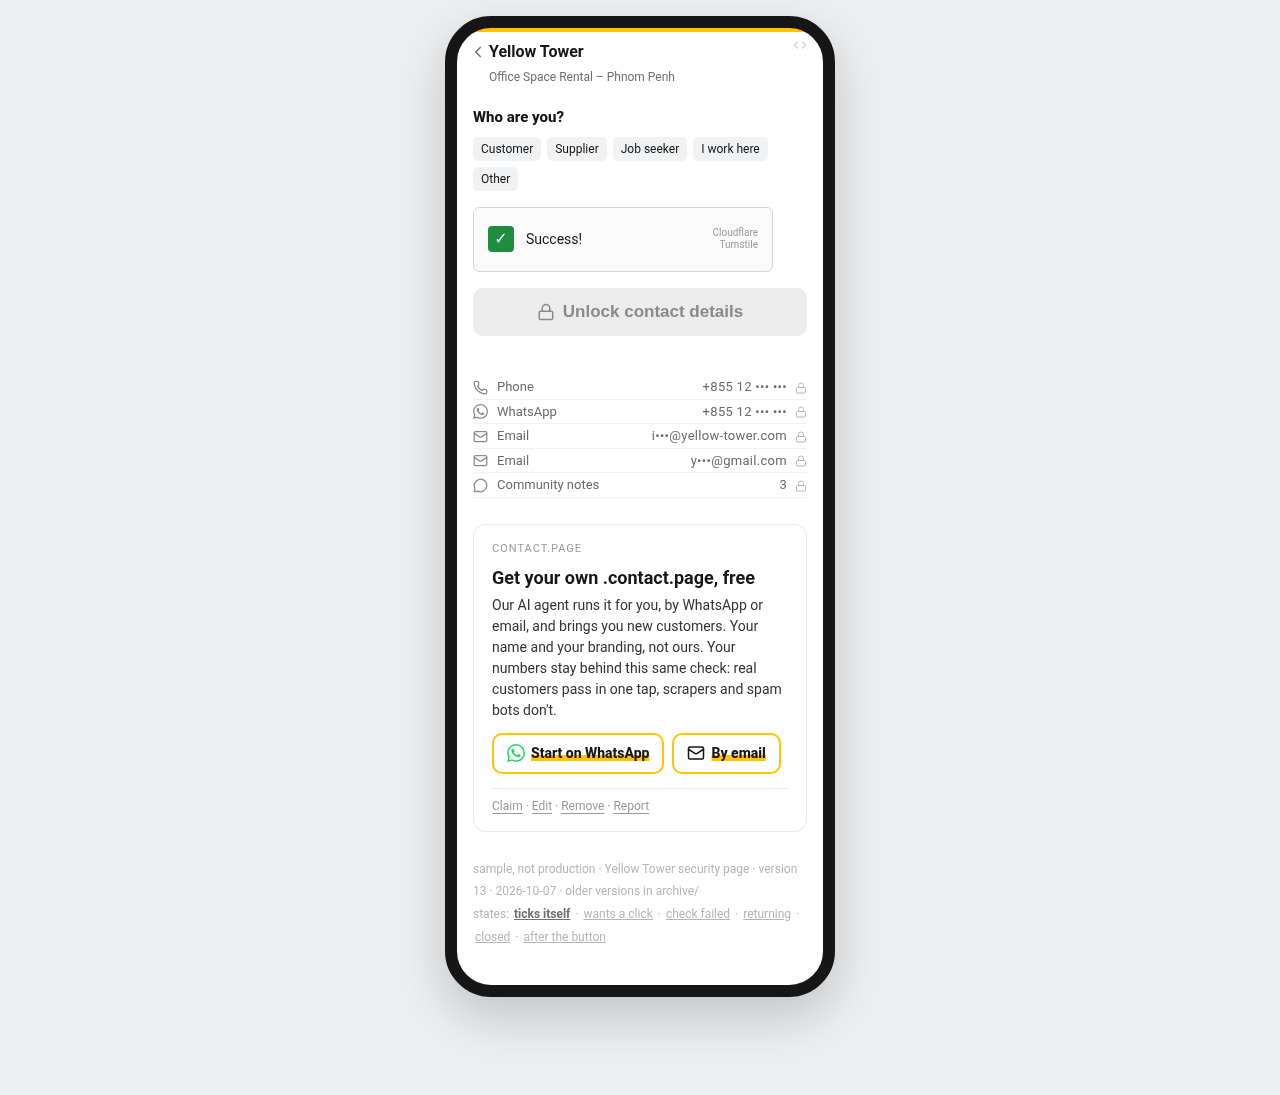
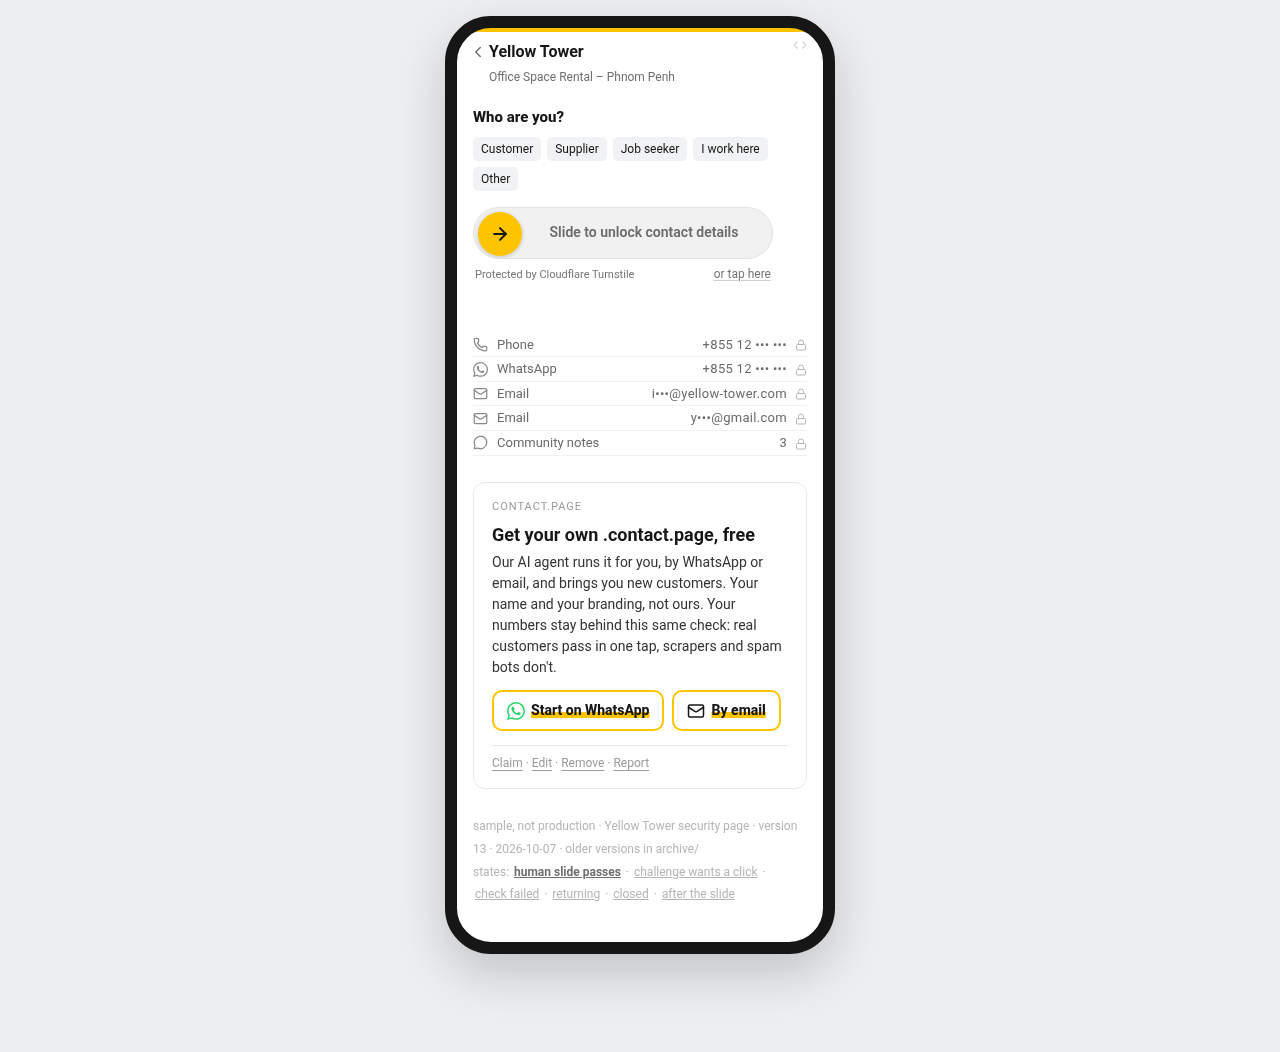
Publish mockups 2026-10-07 00:58 WITA

diff --git a/yellow-tower-security-page.html b/yellow-tower-security-page.html
@@ -53,6 +53,24 @@ h1 .arrow{color:var(--grey);margin-left:-4px}
 .btn.on{background:var(--green);color:var(--green-ink);box-shadow:0 4px 14px rgba(34,197,94,.35)}
 .btn:focus-visible{outline:2px solid var(--ink);outline-offset:3px}
 .hint{font-size:13px;color:var(--warn);margin:6px 0 0;min-height:1.2em}
+
+.unlockcol{width:300px;max-width:100%}
+.ts.hidden{display:none}
+.ts{margin:0 0 10px}
+.slide{position:relative;width:100%;height:52px;border-radius:999px;background:#f1f1f1;border:1px solid #e2e2e2;
+  user-select:none;-webkit-user-select:none;touch-action:none;overflow:hidden}
+.slide .fill{position:absolute;left:0;top:0;bottom:0;width:0;background:var(--yellow-soft);border-radius:999px}
+.slide .track{position:absolute;inset:0;display:flex;align-items:center;justify-content:center;padding:0 16px 0 58px;
+  font-size:14px;font-weight:600;color:#6b6b6b;pointer-events:none}
+.slide .knob{position:absolute;left:4px;top:4px;width:44px;height:44px;border-radius:50%;background:var(--yellow);color:var(--ink);
+  display:flex;align-items:center;justify-content:center;cursor:grab;box-shadow:0 1px 4px rgba(0,0,0,.2);transition:left .25s}
+.slide .knob:focus-visible{outline:2px solid var(--ink);outline-offset:2px}
+.slide.drag .knob{transition:none;cursor:grabbing}
+.slide.off{background:#f4f4f4}
+.slide.off .knob{background:#d9d9d9;color:#8a8a8a;cursor:not-allowed}
+.slide.wait .track::after{content:"…"}
+.under{display:flex;justify-content:space-between;align-items:baseline;gap:8px;margin:6px 2px 0;font-size:11px;color:#767676}
+.under a{color:#767676;text-decoration:underline;text-decoration-color:#cfcfcf;text-underline-offset:2px;font-size:12px}
 .hp{position:absolute;left:-10000px;width:1px;height:1px;overflow:hidden}
 
 
@@ -144,21 +162,26 @@ body[data-state="closed"] .house .own{display:none}
 </div>
 
 
-<div class="step">
-<div class="ts" id="ts" data-ts="wait" aria-live="polite">
+<div class="step unlockcol">
+<div class="ts hidden" id="ts" data-ts="wait" aria-live="polite">
 <span class="spin" id="tsSpin" aria-hidden="true"></span>
 <span class="box" id="tsBox" role="checkbox" aria-checked="false" tabindex="-1" aria-label="Verify you are human" style="display:none"></span>
 <span class="txt" id="tsTxt">Checking…</span>
 <span class="brand">Cloudflare<br>Turnstile</span>
 </div>
+<div class="slide" id="slide">
+<div class="fill" id="slideFill"></div>
+<div class="track" id="slideTxt">Slide to unlock contact details</div>
+<div class="knob" id="knob" role="slider" tabindex="0" aria-label="Slide to unlock contact details" aria-valuemin="0" aria-valuemax="100" aria-valuenow="0" aria-valuetext="locked"><svg viewBox="0 0 24 24" width="20" height="20" fill="none" stroke="currentColor" stroke-width="2.4" stroke-linecap="round" stroke-linejoin="round" aria-hidden="true"><path d="M5 12h14"/><path d="m12 5 7 7-7 7"/></svg></div>
+</div>
+<div class="under"><span>Protected by Cloudflare Turnstile</span><a href="#" id="tapUnlock">or tap here</a></div>
 </div>
 
 
 <div class="hp" aria-hidden="true"><label for="company_website">Company website</label><input type="text" id="company_website" name="company_website" tabindex="-1" autocomplete="off"></div>
 <input type="hidden" name="cf-turnstile-response" id="tsToken" value="">
+<input type="hidden" name="slide_score" id="slideScore" value="">
 
-
-<button class="btn" type="submit" id="go"><svg class="bi" viewBox="0 0 24 24" width="18" height="18" fill="none" stroke="currentColor" stroke-width="2" stroke-linecap="round" stroke-linejoin="round" aria-hidden="true"><rect width="18" height="11" x="3" y="11" rx="2" ry="2" /><path d="M7 11V7a5 5 0 0 1 10 0v4" /></svg>Unlock contact details</button>
 <p class="hint" id="hint" aria-live="polite"></p>
 </form>
 
@@ -190,28 +213,36 @@ body[data-state="closed"] .house .own{display:none}
 <div class="meta">
 sample, not production · Yellow Tower security page · version 13 · 2026-10-07 · older versions in archive/<br>
 states:
-<button type="button" data-state="first" data-ts="auto" aria-pressed="true">ticks itself</button> ·
-<button type="button" data-state="first" data-ts="click" aria-pressed="false">wants a click</button> ·
+<button type="button" data-state="first" data-ts="auto" aria-pressed="true">human slide passes</button> ·
+<button type="button" data-state="first" data-ts="click" aria-pressed="false">challenge wants a click</button> ·
 <button type="button" data-state="fail" aria-pressed="false">check failed</button> ·
 <button type="button" data-state="returning" aria-pressed="false">returning</button> ·
 <button type="button" data-state="closed" aria-pressed="false">closed</button> ·
-<button type="button" data-state="done" aria-pressed="false">after the button</button>
+<button type="button" data-state="done" aria-pressed="false">after the slide</button>
 </div>
 
 </div>
 <script>
-// Mockup behaviour only. Production: Turnstile's callback sets the token; the form posts to /contact-details; the server verifies.
+// Mockup behaviour only. Production: Turnstile (managed/invisible) sets the token in the background; the slide adds a
+// score; the form posts role + token + score + honeypot to /contact-details; the server verifies the TOKEN (siteverify).
+// The slide score is never enough on its own.
 (function(){
   var body=document.body, ts=document.getElementById('ts'), spin=document.getElementById('tsSpin'),
-      box=document.getElementById('tsBox'), txt=document.getElementById('tsTxt'), go=document.getElementById('go'),
-      hint=document.getElementById('hint'), who=document.getElementById('who'), form=document.getElementById('gateForm'), timer;
+      box=document.getElementById('tsBox'), txt=document.getElementById('tsTxt'),
+      slide=document.getElementById('slide'), knob=document.getElementById('knob'), fill=document.getElementById('slideFill'),
+      stxt=document.getElementById('slideTxt'), tap=document.getElementById('tapUnlock'),
+      hint=document.getElementById('hint'), who=document.getElementById('who'), form=document.getElementById('gateForm'),
+      timer, tsKind='auto', pts=[], dragging=false, x0=0, pos=0;
   function role(){ return form.querySelector('input[name=role]:checked'); }
-  function ticked(){ return ts.dataset.ts==='ok'; }
-  function refresh(focus){
-    var ready=role() && ticked();
-    go.classList.toggle('on', !!ready);
-    if(ready){ hint.textContent=''; who.classList.remove('needs'); if(focus) go.focus(); }
+  function maxX(){ return slide.clientWidth - knob.offsetWidth - 8; }
+  function setPos(px, anim){
+    pos=Math.max(0, Math.min(maxX(), px));
+    slide.classList.toggle('drag', !anim);
+    knob.style.left=(4+pos)+'px'; fill.style.width=(pos+48)+'px';
+    knob.setAttribute('aria-valuenow', Math.round(pos/maxX()*100));
   }
+  function reset(){ setPos(0,true); fill.style.width='0'; knob.setAttribute('aria-valuetext','locked'); stxt.textContent='Slide to unlock contact details'; }
+  // Visible Turnstile box (fallback challenge)
   function tsSet(mode){
     clearTimeout(timer); ts.dataset.ts=mode;
     spin.style.display = mode==='wait' ? '' : 'none';
@@ -221,37 +252,76 @@ states:
     box.tabIndex = mode==='click' ? 0 : -1;
     txt.textContent = {wait:'Checking…', click:'Verify you are human', ok:'Success!', fail:'Check failed'}[mode];
   }
-  function start(kind){
+  function challenge(){
+    // Show Turnstile inline. "ticks itself" = managed check passes after a moment; "wants a click" = one click.
+    ts.classList.remove('hidden'); stxt.textContent='One more check above'; knob.setAttribute('aria-valuetext','checking');
     tsSet('wait');
     timer=setTimeout(function(){
-      if(kind==='click'){ tsSet('click'); }
-      else { tsSet('ok'); document.getElementById('tsToken').value='TURNSTILE-TOKEN'; refresh(!!role()); }
+      if(tsKind==='click'){ tsSet('click'); box.focus(); }
+      else { tsSet('ok'); setTimeout(unlock, 400); }
     },1200);
   }
-  function setState(s, tsKind, btn){
-    body.setAttribute('data-state', s);
-    document.querySelectorAll('.meta button').forEach(function(b){ b.setAttribute('aria-pressed', b===btn ? 'true':'false'); });
-    go.classList.remove('on');
-    if(s==='first'){ form.reset(); start(tsKind||'auto'); }
-    if(s==='fail'){ tsSet('fail'); }
+  function needRole(){
+    if(role()) return false;
+    who.classList.add('needs'); hint.textContent='Pick who you are first.';
+    form.querySelector('input[name=role]').focus(); reset(); return true;
   }
-  document.querySelectorAll('.meta button').forEach(function(b){ b.addEventListener('click', function(){ setState(b.dataset.state, b.dataset.ts, b); }); });
-  function clickTick(){ if(ts.dataset.ts==='click'){ tsSet('ok'); refresh(!!role()); } }
+  function unlock(){
+    if(document.getElementById('company_website').value) return; // honeypot: silent
+    document.getElementById('tsToken').value='TURNSTILE-TOKEN';
+    setPos(maxX(),true); stxt.textContent='Unlocked'; knob.setAttribute('aria-valuetext','unlocked');
+    // Production: POST role + token + slide_score + honeypot -> server siteverify -> cp_verified -> details.
+    // GA4: contact_gate_solved {role, mode: slide|challenge}
+    setState('done');
+    setTimeout(function(){ location.href='yellow-tower-contact-details-page.html?role='+encodeURIComponent(role().value); }, 900);
+  }
+  // Score the drag: humans are a bit slow, uneven and wobbly; scripts are instant, straight and constant.
+  function score(){
+    if(pts.length<6) return {human:false, why:'too few points'};
+    var dur=pts[pts.length-1].t-pts[0].t, speeds=[], ys=pts.map(function(p){return p.y;});
+    for(var i=1;i<pts.length;i++){ var dt=pts[i].t-pts[i-1].t; if(dt>0) speeds.push((pts[i].x-pts[i-1].x)/dt); }
+    var m=speeds.reduce(function(a,b){return a+b;},0)/(speeds.length||1);
+    var sd=Math.sqrt(speeds.reduce(function(a,b){return a+(b-m)*(b-m);},0)/(speeds.length||1));
+    var cv=m ? sd/Math.abs(m) : 0, jitter=Math.max.apply(null,ys)-Math.min.apply(null,ys);
+    var flags=0; if(dur<250) flags++; if(cv<0.15) flags++; if(jitter<1) flags++;
+    document.getElementById('slideScore').value=JSON.stringify({dur:dur,cv:+cv.toFixed(2),jitter:jitter,n:pts.length});
+    return {human: flags<2 && dur>=150, why:{dur:dur,cv:cv,jitter:jitter}};
+  }
+  knob.addEventListener('pointerdown', function(e){
+    if(needRole()) return;
+    dragging=true; x0=e.clientX-pos; pts=[{x:e.clientX,y:e.clientY,t:performance.now()}];
+    knob.setPointerCapture(e.pointerId); slide.classList.add('drag'); hint.textContent='';
+  });
+  knob.addEventListener('pointermove', function(e){
+    if(!dragging) return;
+    pts.push({x:e.clientX,y:e.clientY,t:performance.now()}); setPos(e.clientX-x0,false);
+  });
+  function release(){
+    if(!dragging) return; dragging=false;
+    if(pos < maxX()-6){ reset(); return; }
+    var s=score();
+    if(s.human && tsKind!=='click'){ unlock(); } else { setPos(maxX(),true); challenge(); }
+  }
+  knob.addEventListener('pointerup', release);
+  knob.addEventListener('pointercancel', function(){ dragging=false; reset(); });
+  // Keyboard and tap fallbacks: always through the visible Turnstile box.
+  knob.addEventListener('keydown', function(e){
+    if(['Enter',' ','ArrowRight','ArrowUp','End'].indexOf(e.key)<0) return;
+    e.preventDefault(); if(needRole()) return; setPos(maxX(),true); challenge();
+  });
+  tap.addEventListener('click', function(e){ e.preventDefault(); if(needRole()) return; setPos(maxX(),true); challenge(); });
+  function clickTick(){ if(ts.dataset.ts==='click'){ tsSet('ok'); setTimeout(unlock, 400); } }
   box.addEventListener('click', clickTick);
   box.addEventListener('keydown', function(e){ if(e.key===' '||e.key==='Enter'){ e.preventDefault(); clickTick(); } });
-  form.addEventListener('change', function(){ refresh(true); var r=role(); document.querySelector('.house .own').classList.toggle('hot', !!r && r.value==='works_here'); });
-  form.addEventListener('submit', function(e){
-    e.preventDefault();
-    if(!role()){ who.classList.add('needs'); hint.textContent='Pick who you are first.'; form.querySelector('input[name=role]').focus(); return; }
-    if(!ticked()){ hint.textContent = ts.dataset.ts==='click' ? 'Tick the box first.' : 'One moment, the check is still running.'; return; }
-    if(document.getElementById('company_website').value) return; // honeypot: silent
-    // Production: POST role + Turnstile token + honeypot -> server siteverify -> cp_verified -> reload into the details.
-    // GA4: contact_gate_solved {role, mode}
-    setState('done');
-    // Mockup: go on to the contact details page mockup (page 4 of the standard set), with the role.
-    setTimeout(function(){ location.href='yellow-tower-contact-details-page.html?role='+encodeURIComponent(role().value); }, 900);
-  });
-  start('auto');
+  function setState(s, kind, btn){
+    body.setAttribute('data-state', s);
+    if(btn) document.querySelectorAll('.meta button').forEach(function(b){ b.setAttribute('aria-pressed', b===btn ? 'true':'false'); });
+    if(s==='first'){ form.reset(); tsKind=kind||'auto'; ts.classList.add('hidden'); clearTimeout(timer); reset(); }
+    if(s==='fail'){ ts.classList.remove('hidden'); tsSet('fail'); }
+  }
+  document.querySelectorAll('.meta button').forEach(function(b){ b.addEventListener('click', function(){ setState(b.dataset.state, b.dataset.ts, b); }); });
+  form.addEventListener('change', function(){ if(role()){ hint.textContent=''; who.classList.remove('needs'); } var r=role(); document.querySelector('.house .own').classList.toggle('hot', !!r && r.value==='works_here'); });
+  form.addEventListener('submit', function(e){ e.preventDefault(); });
 })();
 </script>
 </body>
